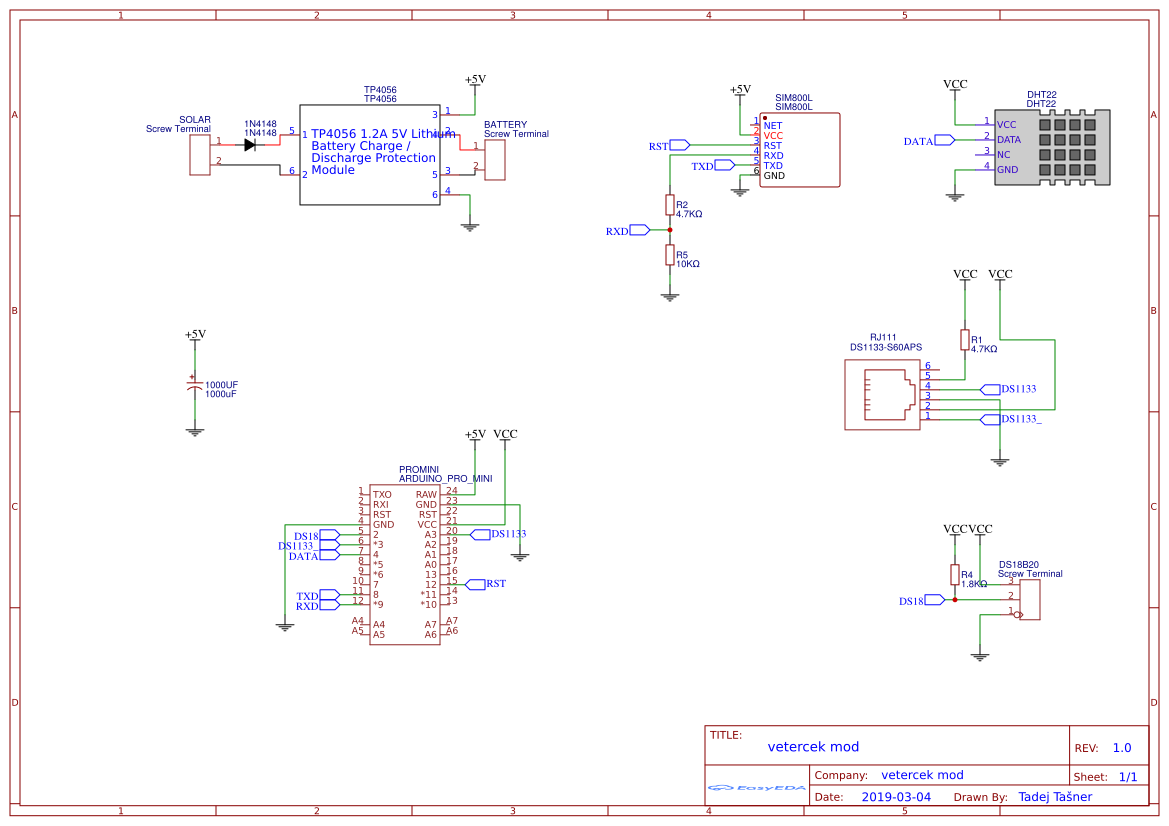
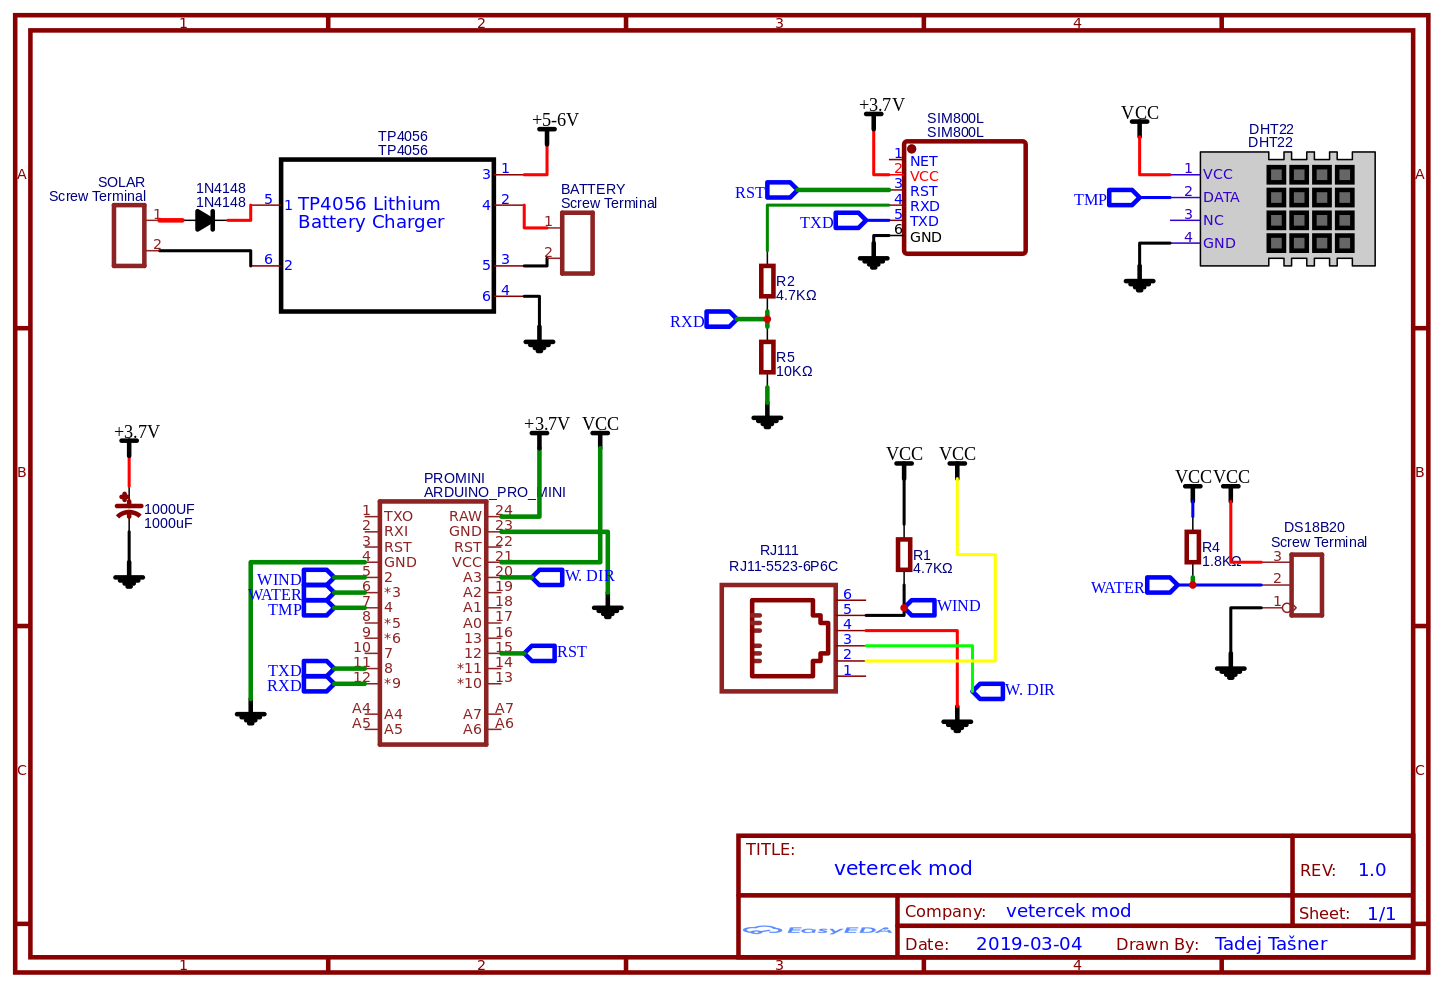
scheme update

diff --git a/README.md b/README.md
@@ -3,7 +3,7 @@ This project was created in order to provide cheap alternative to expensive auto
 
 ## Features of the WS
 + Send wind speed and gusts to the server
-+ Send watter and air temperature to the server
++ Send water and air temperature to the server
 + Send WS battery state to the server
 + Remote adjustment of the time between updates (depending on sever response)
 + Remote adjustment of wind wane offset (depending on sever response)
@@ -24,12 +24,14 @@ This project was created in order to provide cheap alternative to expensive auto
 
 
 ## Scheme
-[Scheme](scheme.png)
-
+![Scheme](scheme.png)
+Most parts are standard but RJ11 jack is a bit tricky. There are few wariants aveliable. Im using one with part number [5523](http://en.glgnet.biz/productsdetail/productId=97.html) printed on it. Connection should look like this on PCB
+![RJ11](rj11.png)
+Here is the [link](https://easyeda.com/jaka87/vetercek-mod) to PCB design.
 
 ## TO-DO
 + create PCB and make larger test outside
-+ allow for larger ints in order to have possibility for longer time between updates
++ ~~allow for larger ints in order to have possibility for longer time between updates~~
 + support for wifi module
 + support for other web services
 + sending GPS cordinates to server (in case WS get stolen)
